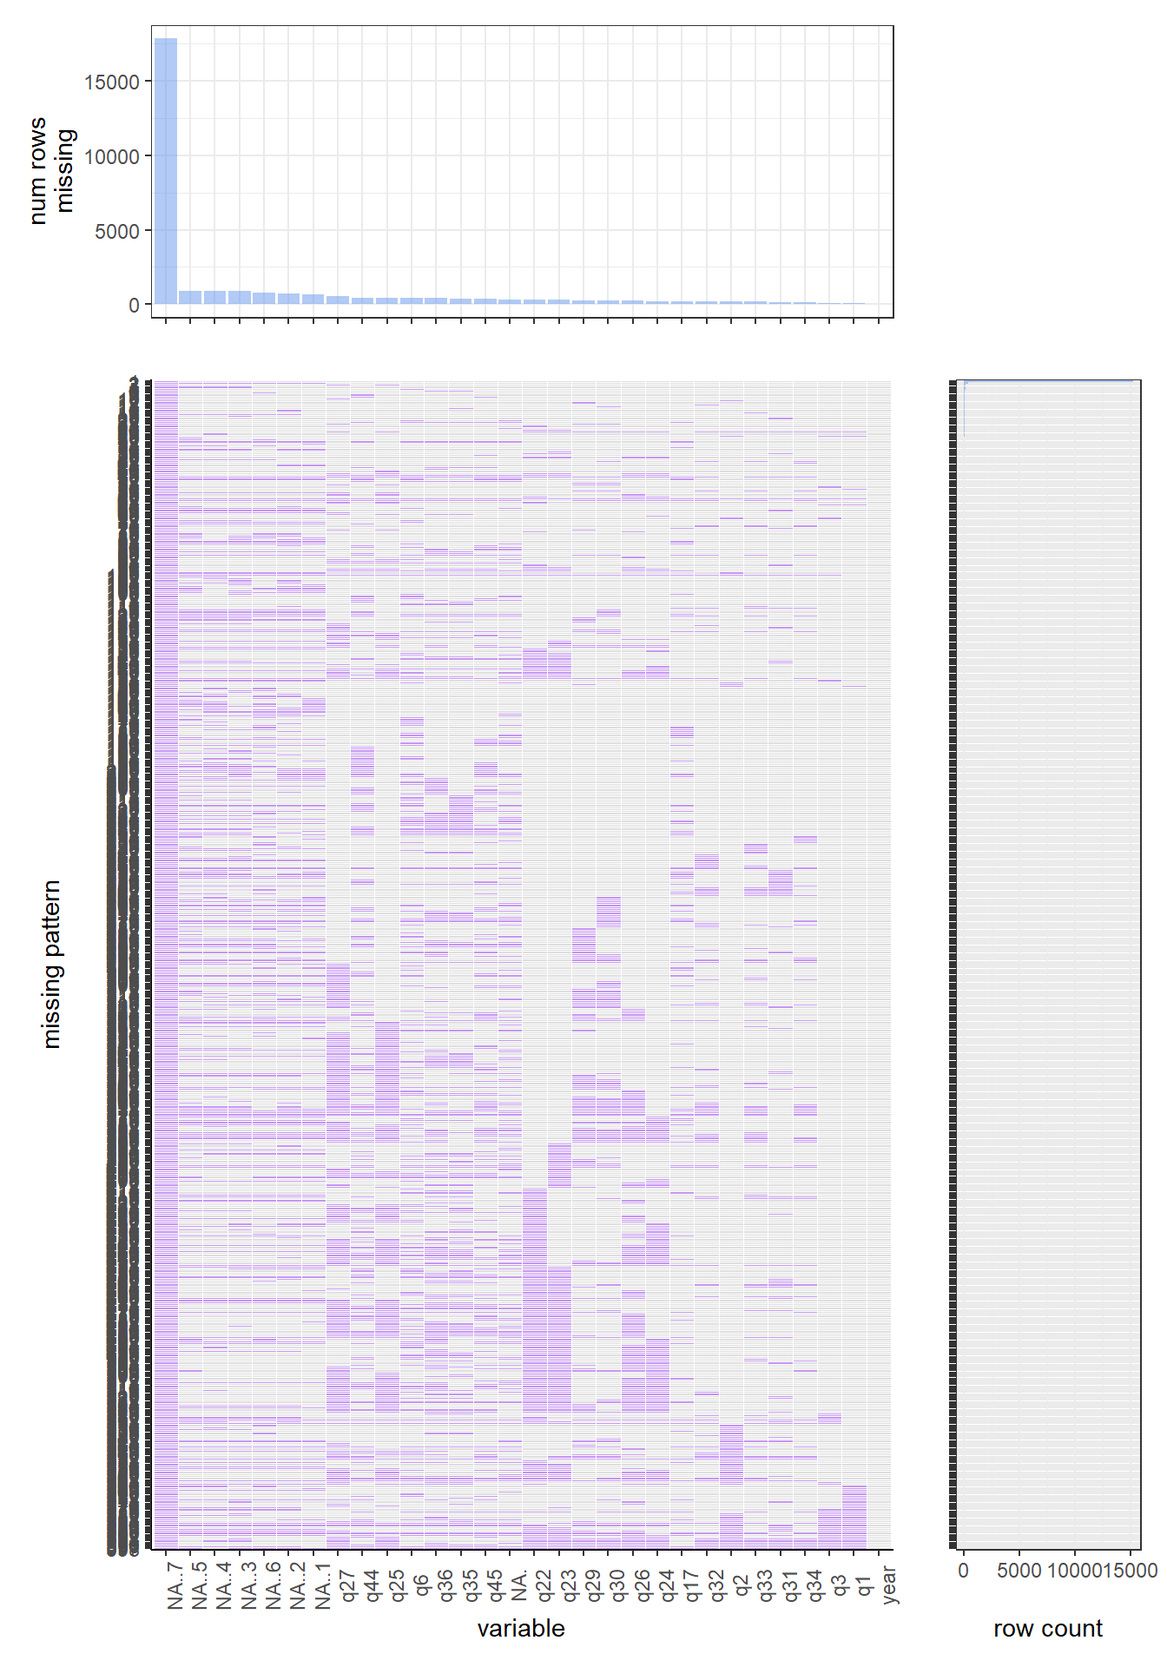
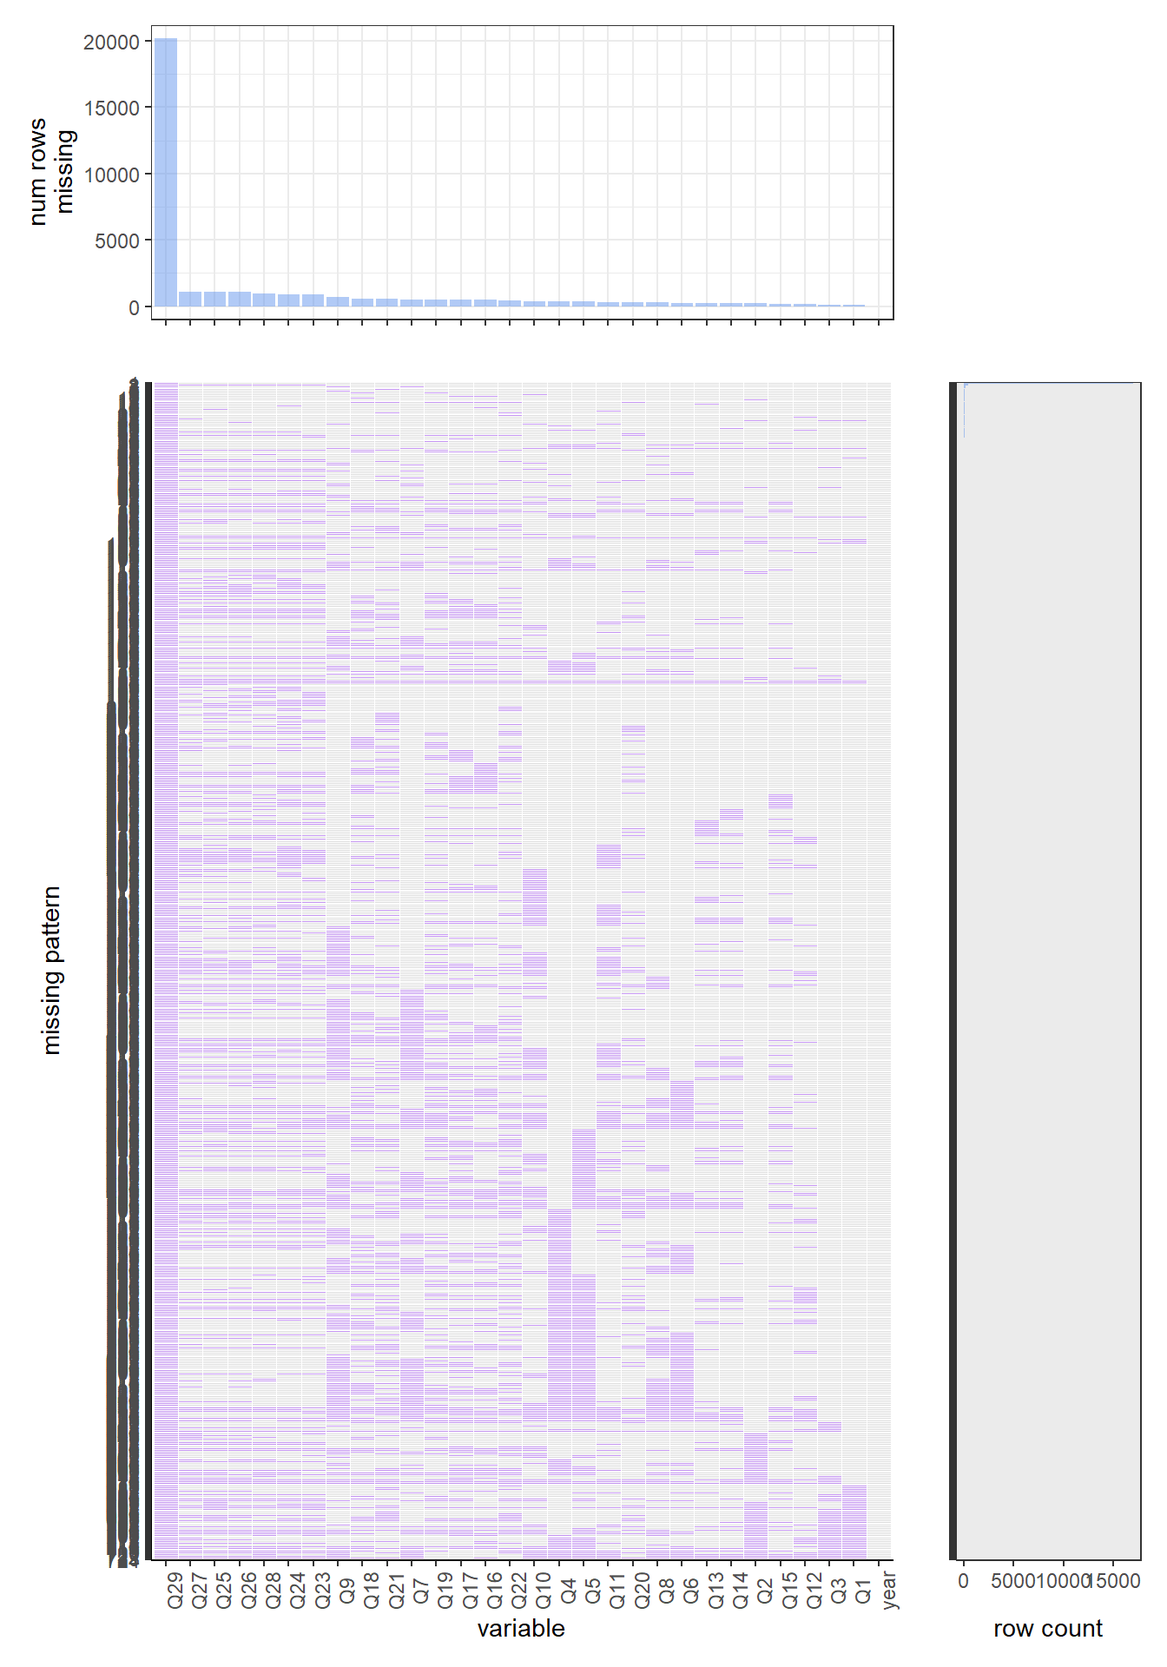
renamed columns in missing chapter

diff --git a/docs/missing-values.html b/docs/missing-values.html
@@ -241,15 +241,45 @@ code span.wa { color: #60a0b0; font-weight: bold; font-style: italic; } /* Warni
 <h2><span class="header-section-number">4.3</span> Youth smoking data set</h2>
 <p>Now, we use our data as input and analyze its missing values patterns.
 Before plotting the missing values pattern, we first need to delete several questions from our data set. Among our data set, several questions, like what race you are, and each race represented a single question, which only allows our participants to choose one race and lead to all other questions missing values, should not be considered into our missing values pattern. Thus, we delete those questions before running the plotting function. Another thing that needs to be mentioned is that we will analyze the data set year by year since our data set is extensive. By doing this, the final result is more precise and easy to understand.</p>
-<p><img src="finalproj_files/figure-html/unnamed-chunk-15-1.png" width="672" /><img src="finalproj_files/figure-html/unnamed-chunk-15-2.png" width="672" /></p>
-<p>Let’s first look at the 2020 year’s data set. By running the function, we find the most common missing variable is Q29, which, according to the codebook, is the question ’During the past 30 days, what brand of cigarettes did you usually smoke’. This question is almost missed in every single row. The most common missing value pattern for the 2020 data set is missing “q29, q27, q30, q45,q36, q26, q23, q24, q25”, which correspondingly are “During the past 30 days, what brand of cigarettes did you usually smoke?”, “During the past 30 days, on the days you smoked, about how many cigarettes did you smoke per day? A pack usually has 20 cigarettes in it.”, “Menthol cigarettes are cigarettes that taste like mint. During the past 30 days, were the cigarettes that you usually smoked menthol?”, “How old were you when you first used chewing tobacco, snuff, or dip, even just a small amount?”, “How old were you when you first smoked a cigar, cigarillo, or little cigar, even one or two puffs?”, “When was the last time you smoked a cigeratte, even one or two puffs? (Please choose the first answer that fits)”, “How old were you when you first smoked a cigarette, even one or two puffs?”, “About how many cigarettes have you smoked in your entire life?”, and “During the past 30 days, on how many days did you smoke cigarettes?”. For the whole 2020 data set, almost 70 percent rows have missing values for those variables.</p>
+<p>Here is a reference of questions.</p>
+<div class="sourceCode" id="cb4"><pre class="sourceCode r"><code class="sourceCode r"><span id="cb4-1"><a href="missing-values.html#cb4-1" aria-hidden="true" tabindex="-1"></a> [<span class="dv">1</span>] <span class="st">&quot;How old are you?&quot;</span>                                                                                                                                                                       </span>
+<span id="cb4-2"><a href="missing-values.html#cb4-2" aria-hidden="true" tabindex="-1"></a> [<span class="dv">2</span>] <span class="st">&quot;What is your sex?&quot;</span>                                                                                                                                                                      </span>
+<span id="cb4-3"><a href="missing-values.html#cb4-3" aria-hidden="true" tabindex="-1"></a> [<span class="dv">3</span>] <span class="st">&quot;What grade are you in?&quot;</span>                                                                                                                                                                 </span>
+<span id="cb4-4"><a href="missing-values.html#cb4-4" aria-hidden="true" tabindex="-1"></a> [<span class="dv">4</span>] <span class="st">&quot;Have you ever smoked a cigarette, even one or two puffs?&quot;</span>                                                                                                                               </span>
+<span id="cb4-5"><a href="missing-values.html#cb4-5" aria-hidden="true" tabindex="-1"></a> [<span class="dv">5</span>] <span class="st">&quot;How old were you when you first smoked a cigarette, even one or two puffs?&quot;</span>                                                                                                             </span>
+<span id="cb4-6"><a href="missing-values.html#cb4-6" aria-hidden="true" tabindex="-1"></a> [<span class="dv">6</span>] <span class="st">&quot;About how many cigarettes have you smoked in your entire life?&quot;</span>                                                                                                                         </span>
+<span id="cb4-7"><a href="missing-values.html#cb4-7" aria-hidden="true" tabindex="-1"></a> [<span class="dv">7</span>] <span class="st">&quot;During the past 30 days, on how many days did you smoke cigarettes?&quot;</span>                                                                                                                    </span>
+<span id="cb4-8"><a href="missing-values.html#cb4-8" aria-hidden="true" tabindex="-1"></a> [<span class="dv">8</span>] <span class="st">&quot;When was the last time you smoked a cigeratte, even one or two puffs? (Please choose the first answer that fits)&quot;</span>                                                                       </span>
+<span id="cb4-9"><a href="missing-values.html#cb4-9" aria-hidden="true" tabindex="-1"></a> [<span class="dv">9</span>] <span class="st">&quot;During the past 30 days, on the days you smoked, about how many cigarettes did you smoke per day? A pack usually has 20 cigarettes in it.&quot;</span>                                              </span>
+<span id="cb4-10"><a href="missing-values.html#cb4-10" aria-hidden="true" tabindex="-1"></a>[<span class="dv">10</span>] <span class="st">&quot;During the past 30 days, what brand of cigarettes did you usually smoke?&quot;</span>                                                                                                               </span>
+<span id="cb4-11"><a href="missing-values.html#cb4-11" aria-hidden="true" tabindex="-1"></a>[<span class="dv">11</span>] <span class="st">&quot;Menthol cigarettes are cigarettes that taste like mint. During the past 30 days, were the cigarettes that you usually smoked menthol?&quot;</span>                                                  </span>
+<span id="cb4-12"><a href="missing-values.html#cb4-12" aria-hidden="true" tabindex="-1"></a>[<span class="dv">12</span>] <span class="st">&quot;Have you ever been curious about smoking a cigarette?&quot;</span>                                                                                                                                  </span>
+<span id="cb4-13"><a href="missing-values.html#cb4-13" aria-hidden="true" tabindex="-1"></a>[<span class="dv">13</span>] <span class="st">&quot;Do you think that you will try a cigarette soon?&quot;</span>                                                                                                                                       </span>
+<span id="cb4-14"><a href="missing-values.html#cb4-14" aria-hidden="true" tabindex="-1"></a>[<span class="dv">14</span>] <span class="st">&quot;Do you think that you will smoke a cigarette in the next year?&quot;</span>                                                                                                                         </span>
+<span id="cb4-15"><a href="missing-values.html#cb4-15" aria-hidden="true" tabindex="-1"></a>[<span class="dv">15</span>] <span class="st">&quot;If one of your best friends were to offer you a cigarette, would you smoke it?&quot;</span>                                                                                                         </span>
+<span id="cb4-16"><a href="missing-values.html#cb4-16" aria-hidden="true" tabindex="-1"></a>[<span class="dv">16</span>] <span class="st">&quot;Have you ever smoked a cigar, cigarillo, or little cigar, even one or two puffs?&quot;</span>                                                                                                       </span>
+<span id="cb4-17"><a href="missing-values.html#cb4-17" aria-hidden="true" tabindex="-1"></a>[<span class="dv">17</span>] <span class="st">&quot;How old were you when you first smoked a cigar, cigarillo, or little cigar, even one or two puffs?&quot;</span>                                                                                     </span>
+<span id="cb4-18"><a href="missing-values.html#cb4-18" aria-hidden="true" tabindex="-1"></a>[<span class="dv">18</span>] <span class="st">&quot;Have you ever used chewing tobacco, snuff, or dip, even just a small amount?&quot;</span>                                                                                                           </span>
+<span id="cb4-19"><a href="missing-values.html#cb4-19" aria-hidden="true" tabindex="-1"></a>[<span class="dv">19</span>] <span class="st">&quot;How old were you when you first used chewing tobacco, snuff, or dip, even just a small amount?&quot;</span>                                                                                         </span>
+<span id="cb4-20"><a href="missing-values.html#cb4-20" aria-hidden="true" tabindex="-1"></a>[<span class="dv">20</span>] <span class="st">&quot;Have you ever been curious about using an e-cigarette?&quot;</span>                                                                                                                                 </span>
+<span id="cb4-21"><a href="missing-values.html#cb4-21" aria-hidden="true" tabindex="-1"></a>[<span class="dv">21</span>] <span class="st">&quot;Have you ever used an e-cigarette, even once or twice?&quot;</span>                                                                                                                                 </span>
+<span id="cb4-22"><a href="missing-values.html#cb4-22" aria-hidden="true" tabindex="-1"></a>[<span class="dv">22</span>] <span class="st">&quot;How old were you when you first used an e-cigarette, even once or twice?&quot;</span>                                                                                                               </span>
+<span id="cb4-23"><a href="missing-values.html#cb4-23" aria-hidden="true" tabindex="-1"></a>[<span class="dv">23</span>] <span class="st">&quot;When you are using the Internet, how often do you see ads or promotions for cigarettes or other tobacco products?&quot;</span>                                                                      </span>
+<span id="cb4-24"><a href="missing-values.html#cb4-24" aria-hidden="true" tabindex="-1"></a>[<span class="dv">24</span>] <span class="st">&quot;When you go to a convenience store, supermarket, or gas station, how often do you see ads or promotions for cigarettes or other tobacco products?&quot;</span>                                      </span>
+<span id="cb4-25"><a href="missing-values.html#cb4-25" aria-hidden="true" tabindex="-1"></a>[<span class="dv">25</span>] <span class="st">&quot;When you watch TV or streaming services (such as Netflix, Hulu, or Amazon Prime), or go to the movies, how often do you see ads or promotions for cigarettes or other tobacco products?&quot;</span></span>
+<span id="cb4-26"><a href="missing-values.html#cb4-26" aria-hidden="true" tabindex="-1"></a>[<span class="dv">26</span>] <span class="st">&quot;When you are using the Internet, how often do you see ads or promotions for e-cigarettes?&quot;</span>                                                                                              </span>
+<span id="cb4-27"><a href="missing-values.html#cb4-27" aria-hidden="true" tabindex="-1"></a>[<span class="dv">27</span>] <span class="st">&quot;When you go to a convenience store, supermarket, or gas station, how often do you see ads or promotions for e-cigarettes?&quot;</span>                                                              </span>
+<span id="cb4-28"><a href="missing-values.html#cb4-28" aria-hidden="true" tabindex="-1"></a>[<span class="dv">28</span>] <span class="st">&quot;When you watch TV or streaming services (such as Netflix, Hulu, or Amazon Prime), or go to the movies, how often do you see ads or promotions for e-cigarettes?&quot;</span>                        </span>
+<span id="cb4-29"><a href="missing-values.html#cb4-29" aria-hidden="true" tabindex="-1"></a>[<span class="dv">29</span>] <span class="st">&quot;How often do you see posts related to e-cigarettes when you go on social media (such as YouTube, Instagram, Snapchat, Twitter, or Facebook)?&quot;</span>        </span></code></pre></div>
 <p><img src="finalproj_files/figure-html/unnamed-chunk-16-1.png" width="672" /><img src="finalproj_files/figure-html/unnamed-chunk-16-2.png" width="672" /></p>
-<p>Now let us look at the 2019 data set. We can find that the most common missing variable are q27, q30, q29, which are “During the past 30 days, on the days you smoked, about how many cigarettes did you smoke per day? A pack usually has 20 cigarettes in it.”, “Menthol cigarettes are cigarettes that taste like mint. During the past 30 days, were the cigarettes you usually smoked menthol?”, and “During the past 30 days, what brand of cigarettes did you usually smoke?”. There is around 90 percent of the rows are missing those values. The most common missing value pattern is missing q27, q30, q29, q45, q36, q26, q24, q25, q23. Which are “During the past 30 days, on the days you smoked, about how many cigarettes did you smoke per day? A pack usually has 20 cigarettes in it.”, “Menthol cigarettes are cigarettes that taste like mint. During the past 30 days, were the cigarettes you usually smoked menthol?”, “During the past 30 days, what brand of cigarettes did you usually smoke?”, “How old were you when you first used chewing tobacco, snuff, or dip, even just a small amount?”, “How old were you when you first smoked a cigar, cigarillo, or little cigar, even one or two puffs?”, “When was the last time you smoked a cigarette, even one or two puffs? (Please choose the first answer that fits)”, “About how many cigarettes have you smoked in your entire life?”, “During the past 30 days, on how many days did you smoke cigarettes?”, and “How old were you when you first smoked a cigarette, even one or two puffs?”. There are around 60 percent of rows have such a missing pattern.</p>
+<p>Let’s first look at the 2020 year’s data set. By running the function, we find the most common missing variable is Q29, which, according to the codebook, is the question ’During the past 30 days, what brand of cigarettes did you usually smoke’. This question is almost missed in every single row. The most common missing value pattern for the 2020 data set is missing “q29, q27, q30, q45,q36, q26, q23, q24, q25”, which correspondingly are “During the past 30 days, what brand of cigarettes did you usually smoke?”, “During the past 30 days, on the days you smoked, about how many cigarettes did you smoke per day? A pack usually has 20 cigarettes in it.”, “Menthol cigarettes are cigarettes that taste like mint. During the past 30 days, were the cigarettes that you usually smoked menthol?”, “How old were you when you first used chewing tobacco, snuff, or dip, even just a small amount?”, “How old were you when you first smoked a cigar, cigarillo, or little cigar, even one or two puffs?”, “When was the last time you smoked a cigeratte, even one or two puffs? (Please choose the first answer that fits)”, “How old were you when you first smoked a cigarette, even one or two puffs?”, “About how many cigarettes have you smoked in your entire life?”, and “During the past 30 days, on how many days did you smoke cigarettes?”. For the whole 2020 data set, almost 70 percent rows have missing values for those variables.</p>
 <p><img src="finalproj_files/figure-html/unnamed-chunk-17-1.png" width="672" /><img src="finalproj_files/figure-html/unnamed-chunk-17-2.png" width="672" /></p>
-<p>For the 2018 data set, the missing values patterns have a huge difference with 2019 and 2020. For this year, the complete case is the most common pattern. There is around 80 percent of rows have such a pattern. This year’s most common missing variable is q44, which is the question “Have you ever used chewing tobacco, snuff, or dip, even just a small amount?”. Around 420 rows in the 2018 data set have missing values on this variable.</p>
+<p>Now let us look at the 2019 data set. We can find that the most common missing variable are q27, q30, q29, which are “During the past 30 days, on the days you smoked, about how many cigarettes did you smoke per day? A pack usually has 20 cigarettes in it.”, “Menthol cigarettes are cigarettes that taste like mint. During the past 30 days, were the cigarettes you usually smoked menthol?”, and “During the past 30 days, what brand of cigarettes did you usually smoke?”. There is around 90 percent of the rows are missing those values. The most common missing value pattern is missing q27, q30, q29, q45, q36, q26, q24, q25, q23. Which are “During the past 30 days, on the days you smoked, about how many cigarettes did you smoke per day? A pack usually has 20 cigarettes in it.”, “Menthol cigarettes are cigarettes that taste like mint. During the past 30 days, were the cigarettes you usually smoked menthol?”, “During the past 30 days, what brand of cigarettes did you usually smoke?”, “How old were you when you first used chewing tobacco, snuff, or dip, even just a small amount?”, “How old were you when you first smoked a cigar, cigarillo, or little cigar, even one or two puffs?”, “When was the last time you smoked a cigarette, even one or two puffs? (Please choose the first answer that fits)”, “About how many cigarettes have you smoked in your entire life?”, “During the past 30 days, on how many days did you smoke cigarettes?”, and “How old were you when you first smoked a cigarette, even one or two puffs?”. There are around 60 percent of rows have such a missing pattern.</p>
 <p><img src="finalproj_files/figure-html/unnamed-chunk-18-1.png" width="672" /><img src="finalproj_files/figure-html/unnamed-chunk-18-2.png" width="672" /></p>
-<p>For the 2017 data set, the pattern is very similar to 2018. The complete case is the most common missing value pattern, and around 85 percent of rows have such a pattern. The most common missing variable here is also q44, which is “Have you ever used chewing tobacco, snuff, or dip, even just a small amount?”, and there are around 300 rows have missing values on this variable.</p>
+<p>For the 2018 data set, the missing values patterns have a huge difference with 2019 and 2020. For this year, the complete case is the most common pattern. There is around 80 percent of rows have such a pattern. This year’s most common missing variable is q44, which is the question “Have you ever used chewing tobacco, snuff, or dip, even just a small amount?”. Around 420 rows in the 2018 data set have missing values on this variable.</p>
 <p><img src="finalproj_files/figure-html/unnamed-chunk-19-1.png" width="672" /><img src="finalproj_files/figure-html/unnamed-chunk-19-2.png" width="672" /></p>
+<p>For the 2017 data set, the pattern is very similar to 2018. The complete case is the most common missing value pattern, and around 85 percent of rows have such a pattern. The most common missing variable here is also q44, which is “Have you ever used chewing tobacco, snuff, or dip, even just a small amount?”, and there are around 300 rows have missing values on this variable.</p>
+<p><img src="finalproj_files/figure-html/unnamed-chunk-20-1.png" width="672" /><img src="finalproj_files/figure-html/unnamed-chunk-20-2.png" width="672" /></p>
 <p>For the 2016 data set, the most common missing values pattern is still the complete case, and there is around 85 percent of rows have such a pattern. The most common missing variable here is q17, which is “Have you ever been curious about using an e-cigarette?”, and there are around 500 rows that have missing values on this variable.</p>
 <p>In conclusion, by observing the overall five years missing values patterns’ plot, we can find that participants in 2019 and 2020 do not pay enough attention to the smoking issue. For these two years, there are many questions with missing values, and the whole data set has clear missing value patterns, which can be interpreted as those participates do not take the smoking problems seriously at all, they do not remember what brand of cigarettes they are smoking, they do not remember when is the first time they smoke, they do not remember how many cigarettes they smoke in the past month… All of those just showed how indifferent attitudes they have when asked about their smoking issue. Those indifferent attitudes did not even exist in 2018, 2017, and 2016, which clearly showed how the youth smoking problem became more and more serious those days.</p>
 

diff --git a/docs/results.html b/docs/results.html
@@ -190,7 +190,7 @@ code span.wa { color: #60a0b0; font-weight: bold; font-style: italic; } /* Warni
 <h1><span class="header-section-number">Chapter 5</span> Results</h1>
 <div id="race" class="section level2" number="5.1">
 <h2><span class="header-section-number">5.1</span> Race</h2>
-<p><img src="finalproj_files/figure-html/unnamed-chunk-26-1.png" width="672" /></p>
+<p><img src="finalproj_files/figure-html/unnamed-chunk-27-1.png" width="672" /></p>
 <p>As we can see by the breakdown by race/ethnicity above, almost 1 in every 4 of the youth that identify as Cuban have tried smoking. The percentage of youth identifying as Cuban who have tried smoking is over twice as much as the percentage of youth who identify as Asian. The percentage of the youth who identify as Hispanic or Latino and have tried smoking is about 17%, which is greater than most other race/ethnicities other than American Indian or Alaska Native. Approxmately 1 in 5 of the youth who identity as American Indian or Alaska Native have tried smoking.</p>
 
 </div>
